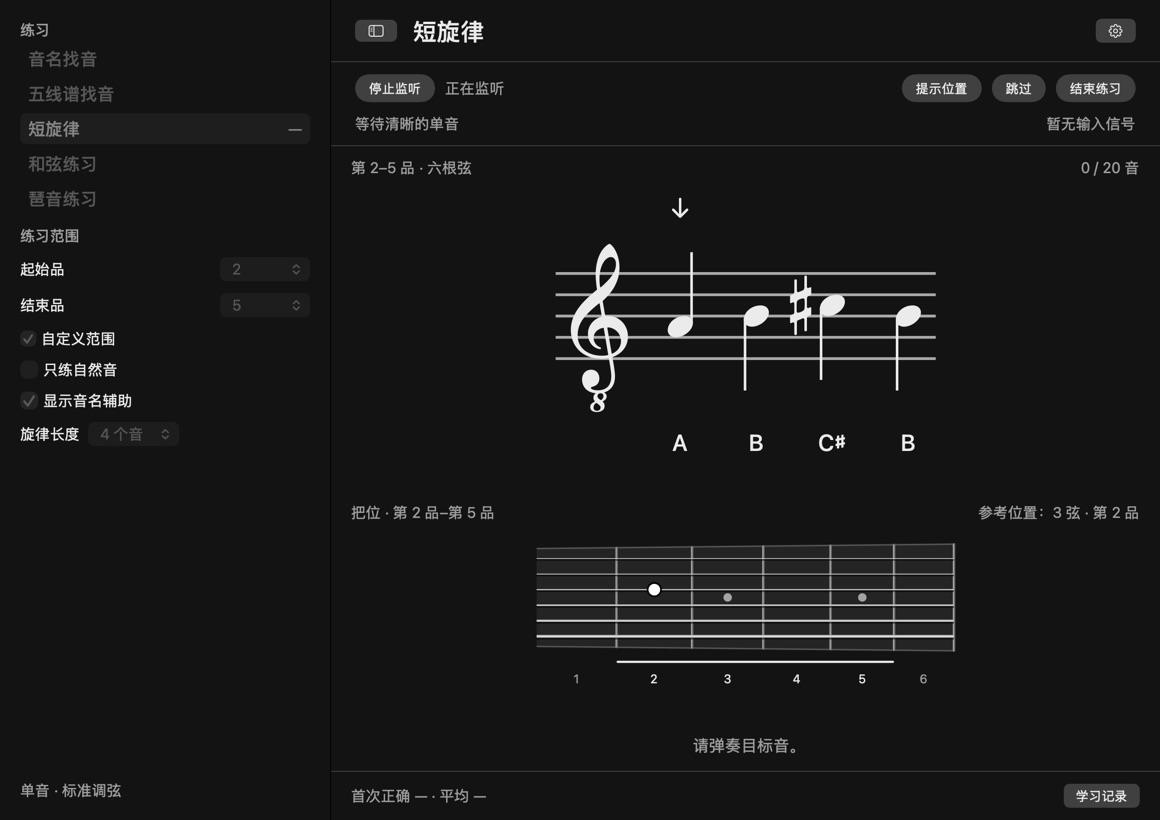
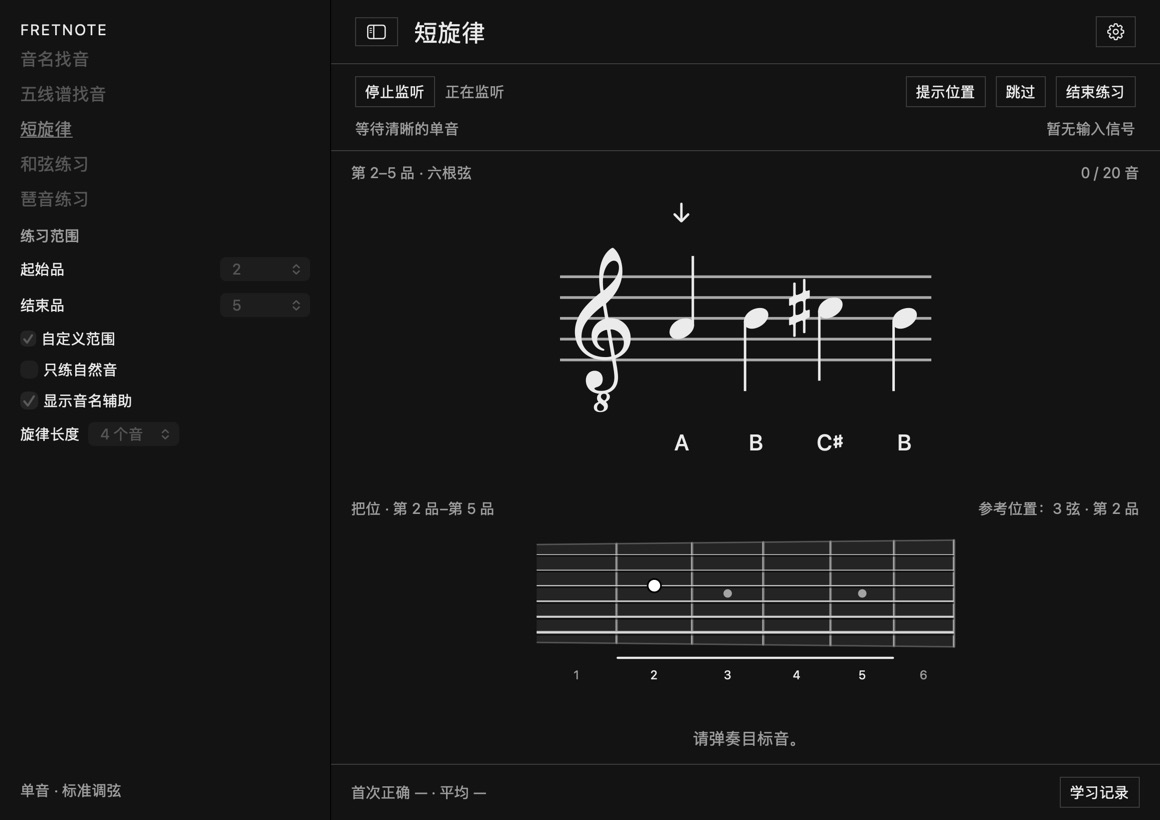
Apply restrained editorial styling to practice screens

diff --git a/Sources/FretNoteApp/LearningView.swift b/Sources/FretNoteApp/LearningView.swift
@@ -31,25 +31,22 @@ struct LearningView: View {
                 HStack {
                     Button { appearance.sidebarVisible.toggle() } label: { Image(systemName: "sidebar.left") }
                         .accessibilityLabel("显示或隐藏侧栏")
-                    Text(store.arpeggio ? "琶音练习" : "和弦练习").font(.system(size: 20 * scale, weight: .medium))
+                    Text(store.arpeggio ? "琶音练习" : "和弦练习").font(.system(size: 20 * scale, weight: .regular))
                     Spacer()
                     OpenSettingsButton()
-                }.buttonStyle(.bordered)
+                }.buttonStyle(EditorialButtonStyle())
                 Divider()
-                Picker("使用方式", selection: Binding(get: { drill.practicing }, set: { value in
-                    if value { drill.practicing = true }
-                    else { drill.reset(records: practice, audio: audio) }
-                })) {
-                    Text("学习").tag(false)
-                    Text("练习").tag(true)
-                }.pickerStyle(.segmented).labelsHidden().frame(width: 180)
+                HStack(spacing: 24) {
+                    modeLink("学习", practicing: false)
+                    modeLink("练习", practicing: true)
+                }
                 HStack {
                     Text(LearningShapes.roots[store.root] + store.quality.suffix)
-                        .font(.system(size: 24 * scale, weight: .medium))
+                        .font(.system(size: 24 * scale, weight: .regular))
                     Spacer()
                     if !drill.practicing {
                         Button("开始练习") { drill.practicing = true; startPractice() }
-                            .buttonStyle(.borderedProminent).disabled(audio.starting)
+                            .buttonStyle(EditorialButtonStyle(prominent: true)).disabled(audio.starting)
                     }
                 }
                 if drill.practicing { exercise }
@@ -81,10 +78,23 @@ struct LearningView: View {
             }
             }.disabled(drill.active || audio.starting)
             Spacer(minLength: 8)
-            Button("学习记录") { showHistory = true }.buttonStyle(.bordered)
+            Button("学习记录") { showHistory = true }.buttonStyle(EditorialButtonStyle())
             Text(drill.practicing ? (store.arpeggio ? "逐音判定 · 注意止音" : "多音判定 · 使用干净音色") : "学习模式 · 无需输入")
                 .font(.system(size: 12 * scale)).foregroundStyle(palette.muted)
         }.padding(20)
+    }
+    private func modeLink(_ title: String, practicing: Bool) -> some View {
+        let selected = drill.practicing == practicing
+        return Button {
+            if practicing { drill.practicing = true }
+            else { drill.reset(records: practice, audio: audio) }
+        } label: {
+            Text(title).font(.system(size: 13 * scale))
+                .foregroundStyle(selected ? palette.ink : palette.muted)
+                .underline(selected, color: palette.ink)
+                .padding(.vertical, 6)
+                .contentShape(Rectangle())
+        }.buttonStyle(.plain).accessibilityAddTraits(selected ? [.isSelected] : [])
     }
     private func startPractice() {
         guard !audio.starting, !drill.active else { return }
@@ -134,7 +144,7 @@ struct LearningView: View {
             ViewThatFits(in: .horizontal) {
                 HStack { exerciseButtons }
                 VStack(alignment: .leading, spacing: 8) { exerciseButtons }
-            }.buttonStyle(.bordered).font(.system(size: 12 * scale))
+            }.buttonStyle(EditorialButtonStyle()).font(.system(size: 12 * scale))
         }
     }
     @ViewBuilder private var exerciseButtons: some View {
@@ -148,7 +158,7 @@ struct LearningView: View {
             Button("结束练习") { drill.end(records: practice); audio.stop() }
         } else {
             Button(audio.starting ? "正在开启输入…" : "开始练习") { startPractice() }
-                .buttonStyle(.borderedProminent).disabled(audio.starting || audio.devices.isEmpty)
+                .buttonStyle(EditorialButtonStyle(prominent: true)).disabled(audio.starting || audio.devices.isEmpty)
         }
     }
     private var gallery: some View {
@@ -175,7 +185,7 @@ struct LearningView: View {
                             FretboardView(lower: example.shape.lower, upper: max(example.shape.lower + 1, example.shape.upper), learningTones: example.shape.tones, showsCaption: false)
                                 .frame(height: diagramHeight)
                                 .environment(\.interfaceScale, min(scale, 1.25))
-                            Divider()
+                            Color.clear.frame(height: 1)
                         }
                     }
                 }
@@ -186,7 +196,7 @@ struct LearningView: View {
                         .foregroundStyle(palette.muted).monospacedDigit()
                     Button("下一页") { store.position = min(pages - 1, page + 1) }.disabled(page + 1 >= pages)
                     Spacer(minLength: 0)
-                }.font(.system(size: 12 * scale)).buttonStyle(.bordered)
+                }.font(.system(size: 12 * scale)).buttonStyle(EditorialButtonStyle())
             }
         }
     }
@@ -207,7 +217,7 @@ struct ExerciseNavigation: View {
     private var palette: AppPalette { AppPalette(scheme: scheme, contrast: contrast) }
     var body: some View {
         VStack(alignment: .leading, spacing: 4) {
-            Text("练习").font(.system(size: 12 * scale, weight: .medium)).foregroundStyle(palette.muted)
+            Text("FRETNOTE").font(.system(size: 12 * scale, weight: .regular)).tracking(1.5).foregroundStyle(palette.ink)
             ForEach(PracticeMode.allCases) { mode in
                 item(mode.rawValue, selected: !practice.learning && practice.mode == mode) {
                     drill.reset(records: practice, audio: audio)
@@ -231,12 +241,10 @@ struct ExerciseNavigation: View {
     private func item(_ title: String, selected: Bool, action: @escaping () -> Void) -> some View {
         Button(action: action) {
             HStack {
-                Text(title).font(.system(size: 14 * scale, weight: .medium))
+                Text(title).font(.system(size: 14 * scale, weight: .regular)).underline(selected, color: palette.ink)
                 Spacer()
-                if selected { Text("—") }
-            }.padding(.vertical, 5).padding(.horizontal, 8)
+            }.padding(.vertical, 5)
                 .foregroundStyle(selected ? palette.ink : palette.muted)
-                .background(selected ? palette.selection : Color.clear, in: RoundedRectangle(cornerRadius: 6))
                 .contentShape(Rectangle())
         }.buttonStyle(.plain).accessibilityAddTraits(selected ? [.isSelected] : [])
     }

diff --git a/Sources/FretNoteApp/ContentView.swift b/Sources/FretNoteApp/ContentView.swift
@@ -65,7 +65,7 @@ struct ContentView: View {
                         Button { showError = true } label: { Label("查看问题", systemImage: "exclamationmark.circle") }
                     }
                     Button("学习记录") { showProgress = true }
-                }.font(.system(size: 12 * scale)).buttonStyle(.bordered)
+                }.font(.system(size: 12 * scale)).buttonStyle(EditorialButtonStyle())
                     .padding(.horizontal, 20).padding(.vertical, 12)
             }.frame(minWidth: 600)
         }
@@ -144,10 +144,10 @@ struct ContentView: View {
             Button { appearance.sidebarVisible.toggle() } label: { Image(systemName: "sidebar.left") }
                 .accessibilityLabel(appearance.sidebarVisible ? "隐藏侧栏" : "显示侧栏")
                 .help("显示或隐藏侧栏（⌃⌘S）")
-            Text(practice.mode.rawValue).font(.system(size: 20 * scale, weight: .medium))
+            Text(practice.mode.rawValue).font(.system(size: 20 * scale, weight: .regular))
             Spacer()
             OpenSettingsButton()
-        }.buttonStyle(.bordered)
+        }.buttonStyle(EditorialButtonStyle())
     }
     private var actionBar: some View {
         ViewThatFits(in: .horizontal) {
@@ -156,7 +156,7 @@ struct ContentView: View {
                 listeningControls
                 HStack { Spacer(); practiceControls }
             }
-        }.font(.system(size: 12 * scale)).controlSize(.large).buttonStyle(.bordered)
+        }.font(.system(size: 12 * scale)).controlSize(.large).buttonStyle(EditorialButtonStyle())
     }
     private var listeningControls: some View {
         HStack(spacing: 10) {
@@ -174,7 +174,7 @@ struct ContentView: View {
                 Button("结束练习") { practice.end() }
             } else {
                 Button("开始练习") { practice.start() }
-                    .buttonStyle(.borderedProminent).disabled(!audio.running)
+                    .buttonStyle(EditorialButtonStyle(prominent: true)).disabled(!audio.running)
                     .help(audio.running ? "开始一组 20 个音的练习（⌘Return）" : "先点击左侧“开启输入”")
             }
         }.fixedSize()
@@ -189,7 +189,7 @@ struct ContentView: View {
             GeometryReader { space in
                 let showsBoard = practice.mode != .names || practice.hint
                 let gap: CGFloat = 12
-                let notationHeight = showsBoard ? (space.size.height - gap) * 0.53 : space.size.height
+                let notationHeight = showsBoard ? max(0, space.size.height - gap) * 0.53 : max(0, space.size.height)
                 VStack(spacing: gap) {
                     notation.frame(height: notationHeight)
                     if showsBoard {
@@ -239,7 +239,7 @@ struct ContentView: View {
                 metric(practice.averageTime, caption: "平均找音时间")
             }
             Text("用过提示或跳过的音会优先安排复习。") .font(.system(size: 12 * scale)).foregroundStyle(muted)
-            Button("完成") { practice.showSummary = false }.buttonStyle(.borderedProminent).keyboardShortcut(.defaultAction)
+            Button("完成") { practice.showSummary = false }.buttonStyle(EditorialButtonStyle(prominent: true)).keyboardShortcut(.defaultAction)
         }.padding(42).frame(width: 480 * scale).foregroundStyle(ink).background(palette.background)
     }
     private func eyebrow(_ text: String) -> some View { Text(text).font(.system(size: 12 * scale, weight: .medium)).foregroundStyle(muted) }

diff --git a/Sources/FretNoteApp/Appearance.swift b/Sources/FretNoteApp/Appearance.swift
@@ -49,3 +49,23 @@ struct AppPalette {
     var rule: Color { Color(white: scheme == .dark ? (contrast == .increased ? 0.65 : 0.27) : (contrast == .increased ? 0.4 : 0.88)) }
     var selection: Color { Color(white: scheme == .dark ? 0.18 : 0.94) }
 }
+
+/// Flat monochrome controls; SwiftUI Button retains keyboard and accessibility behavior.
+struct EditorialButtonStyle: ButtonStyle {
+    var prominent = false
+    @Environment(\.isEnabled) private var enabled
+    @Environment(\.colorScheme) private var scheme
+    @Environment(\.colorSchemeContrast) private var contrast
+    @Environment(\.interfaceScale) private var scale
+    func makeBody(configuration: Configuration) -> some View {
+        let palette = AppPalette(scheme: scheme, contrast: contrast)
+        return configuration.label
+            .padding(.horizontal, 10).padding(.vertical, 6)
+            .frame(minHeight: 28)
+            .foregroundStyle(prominent ? palette.background : palette.ink)
+            .background(prominent ? palette.ink : configuration.isPressed ? palette.selection : palette.background)
+            .overlay(Rectangle().strokeBorder(prominent ? palette.ink : palette.rule, lineWidth: 1))
+            .opacity(enabled ? (configuration.isPressed ? 0.7 : 1) : 0.4)
+            .contentShape(Rectangle())
+    }
+}

diff --git a/README.md b/README.md
@@ -43,6 +43,8 @@ Actual app views rendered with demo data; no personal learning records are shown
 
 ![Learning history with cumulative statistics and session results](docs/screenshots/learning-history.jpg)
 
+The main practice screens borrow the text-led navigation, restrained monochrome palette and editorial grid of [SSENSE](https://www.ssense.com/en-us). Native macOS menus, adjustable text, proportional diagrams and a single-window layout remain.
+
 ## Features
 
 - **Fretboard learning:** choose a root and quality to view a gallery of 135 triads or 137 shells, without connecting a guitar. The current source build also provides ordered arpeggio practice and experimental polyphonic chord practice.

diff --git a/README.zh-CN.md b/README.zh-CN.md
@@ -40,6 +40,8 @@
 
 ![累计练习统计与每组学习记录](docs/screenshots/learning-history.jpg)
 
+主练习页面参考 [SSENSE](https://www.ssense.com/en-us) 的文字导航、黑白层次与规整网格，使用下划线选中态和直角按钮；保留原生 macOS 菜单、可调字号、指板比例和无需上下滚动的布局。
+
 ## 下载与安装
 
 从 [GitHub Releases](https://github.com/lele94218/FretNote/releases/latest) 下载 `FretNote-v0.3.1-macOS-arm64.zip`，解压后将 `FretNote.app` 拖入“应用程序”。需要 **Apple Silicon（M 系列）Mac、macOS 13 或更新版本**。当前发布包不支持 Intel；Intel 用户可尝试从源码构建，尚未验证。
